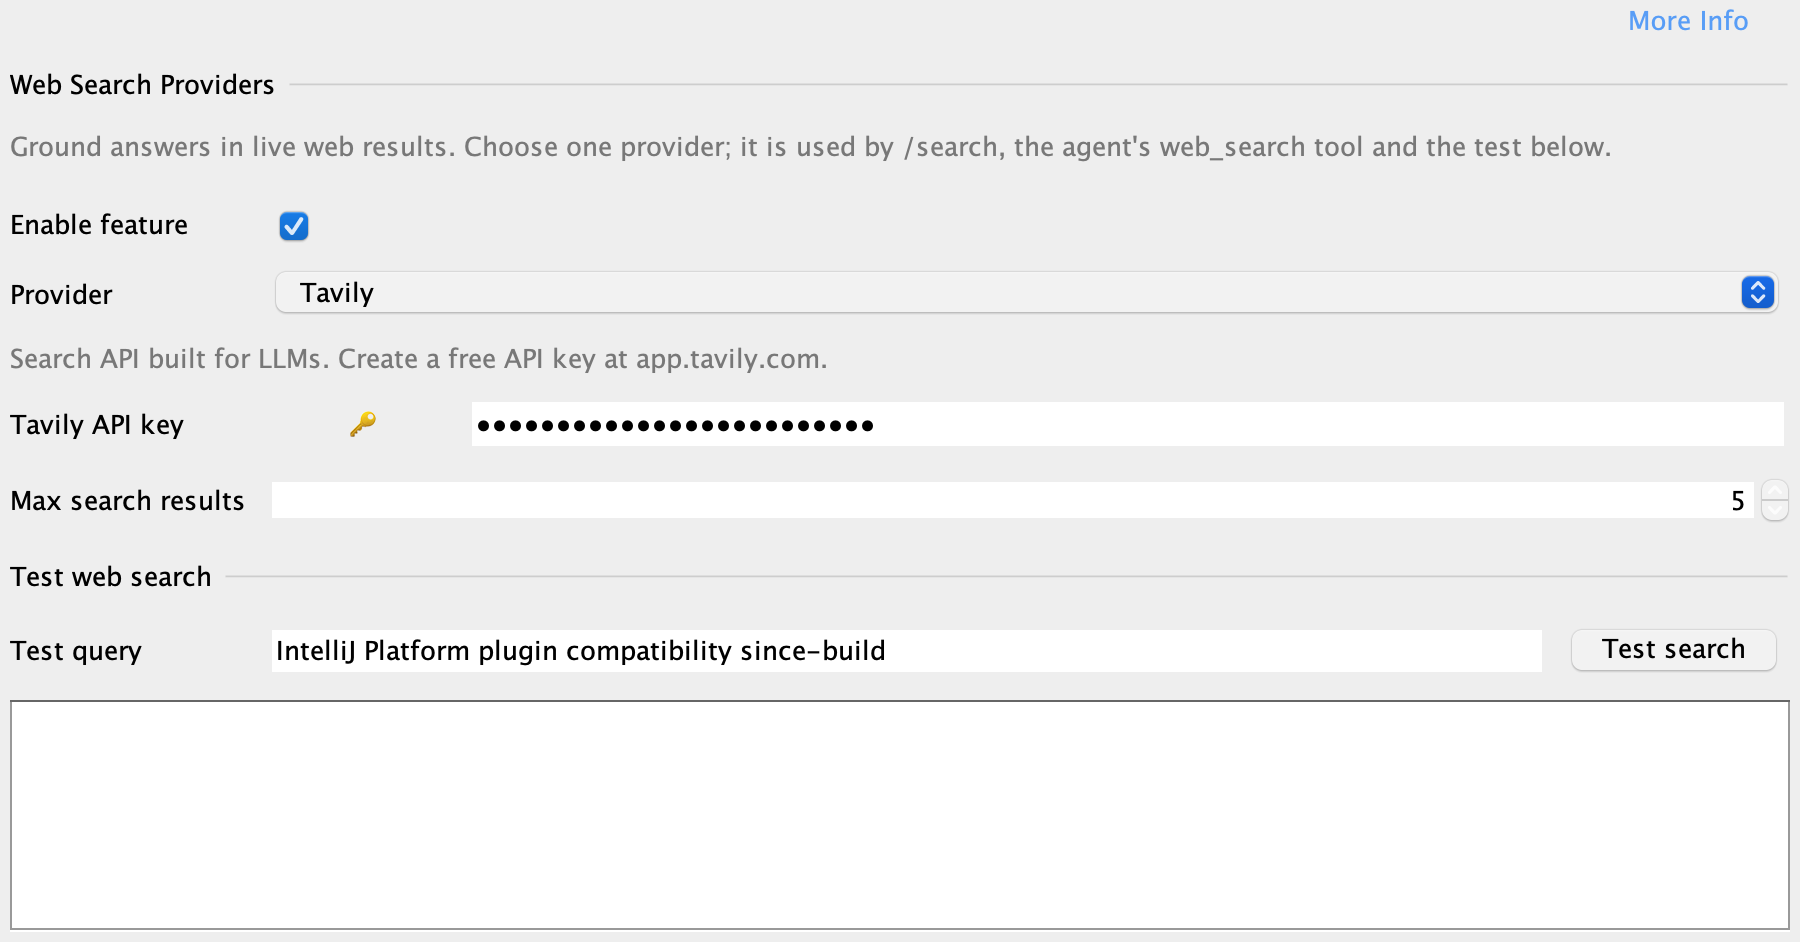
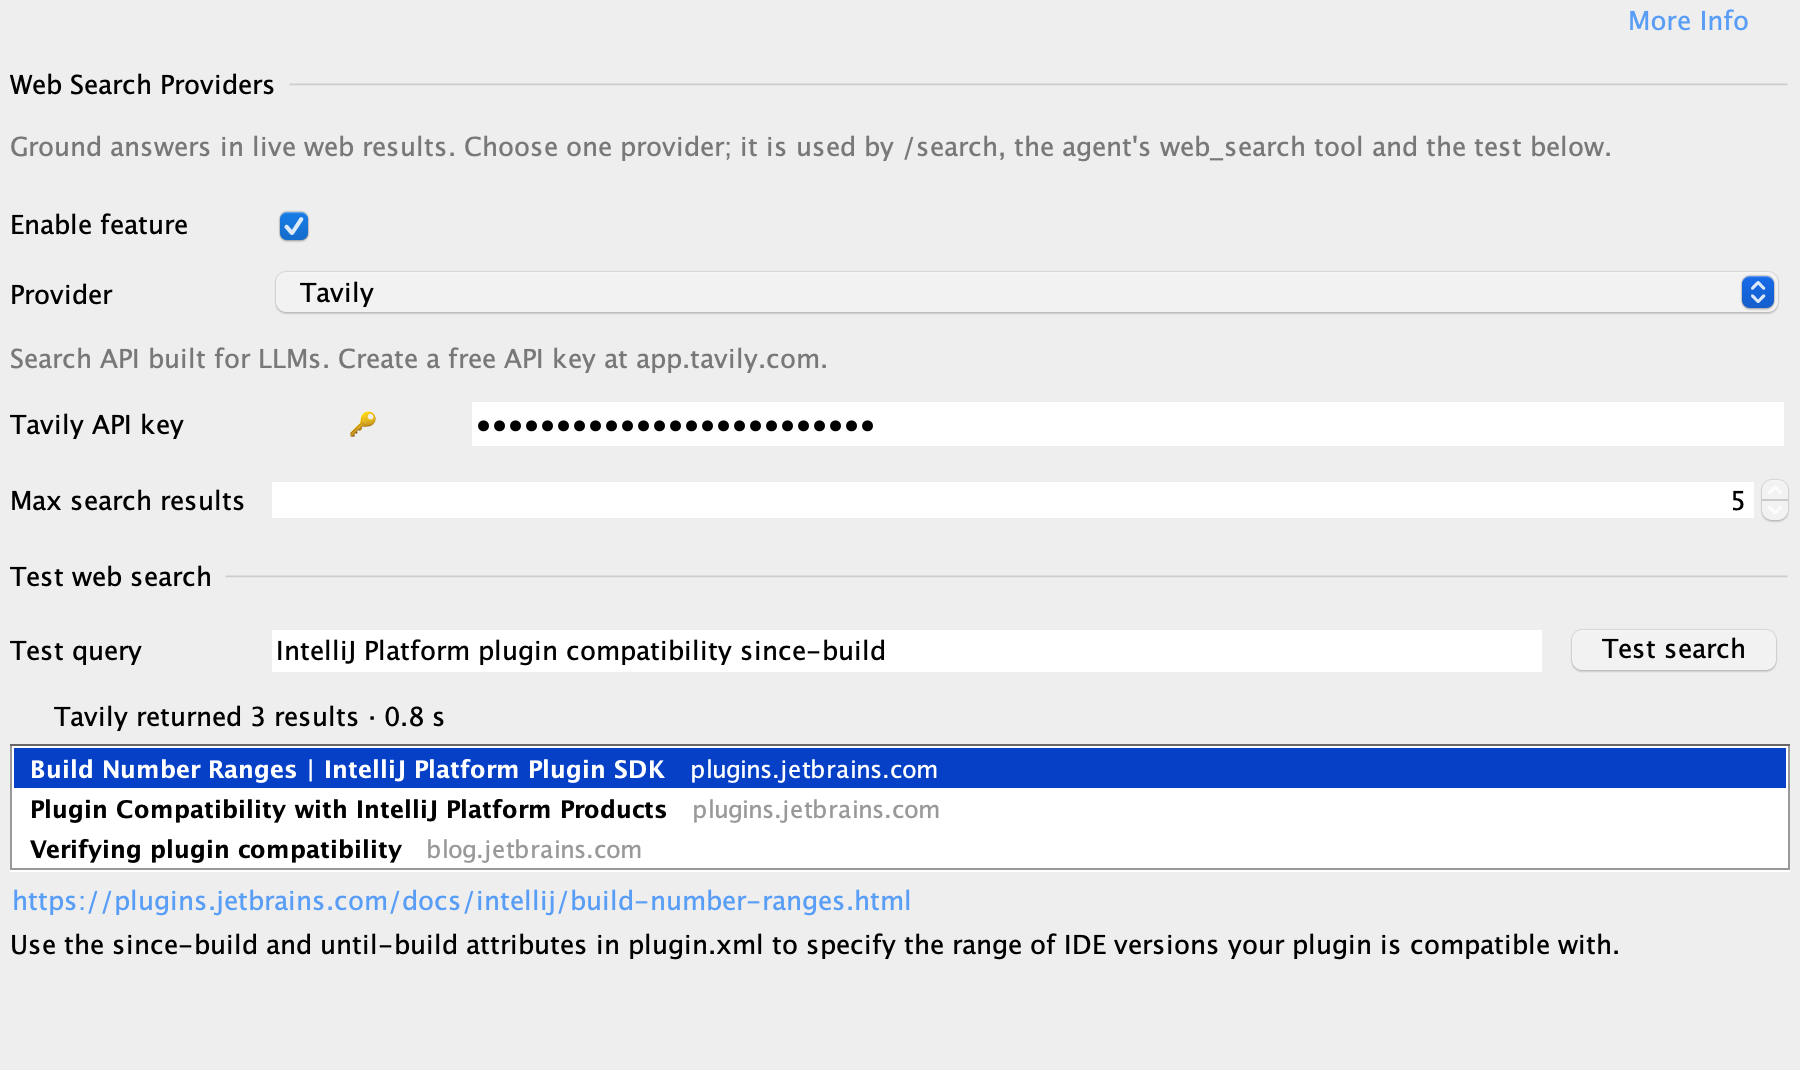
docs: describe the settings test-search results for web search and RAG

diff --git a/docusaurus/docs/features/rag.md b/docusaurus/docs/features/rag.md
@@ -175,6 +175,16 @@ When Agent mode + RAG are both on, DevoxxGenie also injects a `<RAG_INSTRUCTION>
 
 The tool is registered automatically whenever RAG is enabled and Agent mode is on. To override that — e.g. to force the agent to use lexical search only — uncheck `semantic_search` under **Settings → DevoxxGenie → Agent Mode → Built-in Tools**. The setting is independent of the master RAG switch, so you can keep passive injection active for non-agent prompts while excluding `semantic_search` from the agent's toolbox.
 
+### Testing retrieval from Settings
+
+To check what RAG finds before you rely on it in a prompt, use **Test semantic search** at the bottom of **Settings → DevoxxGenie → RAG**. Type a query and press **Enter** or click **Search**. The search uses the saved RAG settings, so click **Apply** first if you changed any.
+
+- The status line shows how many matches were found and how long the search took, or why nothing came back (for example, the project isn't indexed yet, or the minimum score is too high).
+- Each match is one row: its similarity score, file name and folder, best match first. Select a row to see the exact chunk that was embedded.
+- Double-click a match, or click its path above the preview, to open the file at that chunk. Settings is a modal dialog, so the file opens in the editor behind it.
+
+The same test block is used under **Settings → DevoxxGenie → Web search** to try a web search provider.
+
 ### Example Queries
 
 These types of queries benefit most from RAG (in either mode):

diff --git a/docusaurus/docs/features/web-search.md b/docusaurus/docs/features/web-search.md
@@ -77,7 +77,7 @@ What this means in DevoxxGenie:
 3. Choose a **Provider**
 4. Enter that provider's credentials (see below)
 5. Optionally set **Max search results** (1–10, default 5)
-6. Type a query under **Test web search** and click **Test search** to check the setup. The test uses what is in the form, so you can try a key **before** you click Apply.
+6. Type a query under **Test web search** and press **Enter** or click **Test search** to check the setup. The test uses what is in the form, so you can try a key **before** you click Apply. A status line shows which provider answered, how many results came back and how long it took, or a clear error, such as a rejected or missing key. Each result is listed with its title and site. Select a result to see its cleaned-up snippet and full URL, and double-click it or click the URL to open the page in your browser.
 7. Click **Apply**
 
 ![Web Search Settings](/img/web-search-settings.png)
